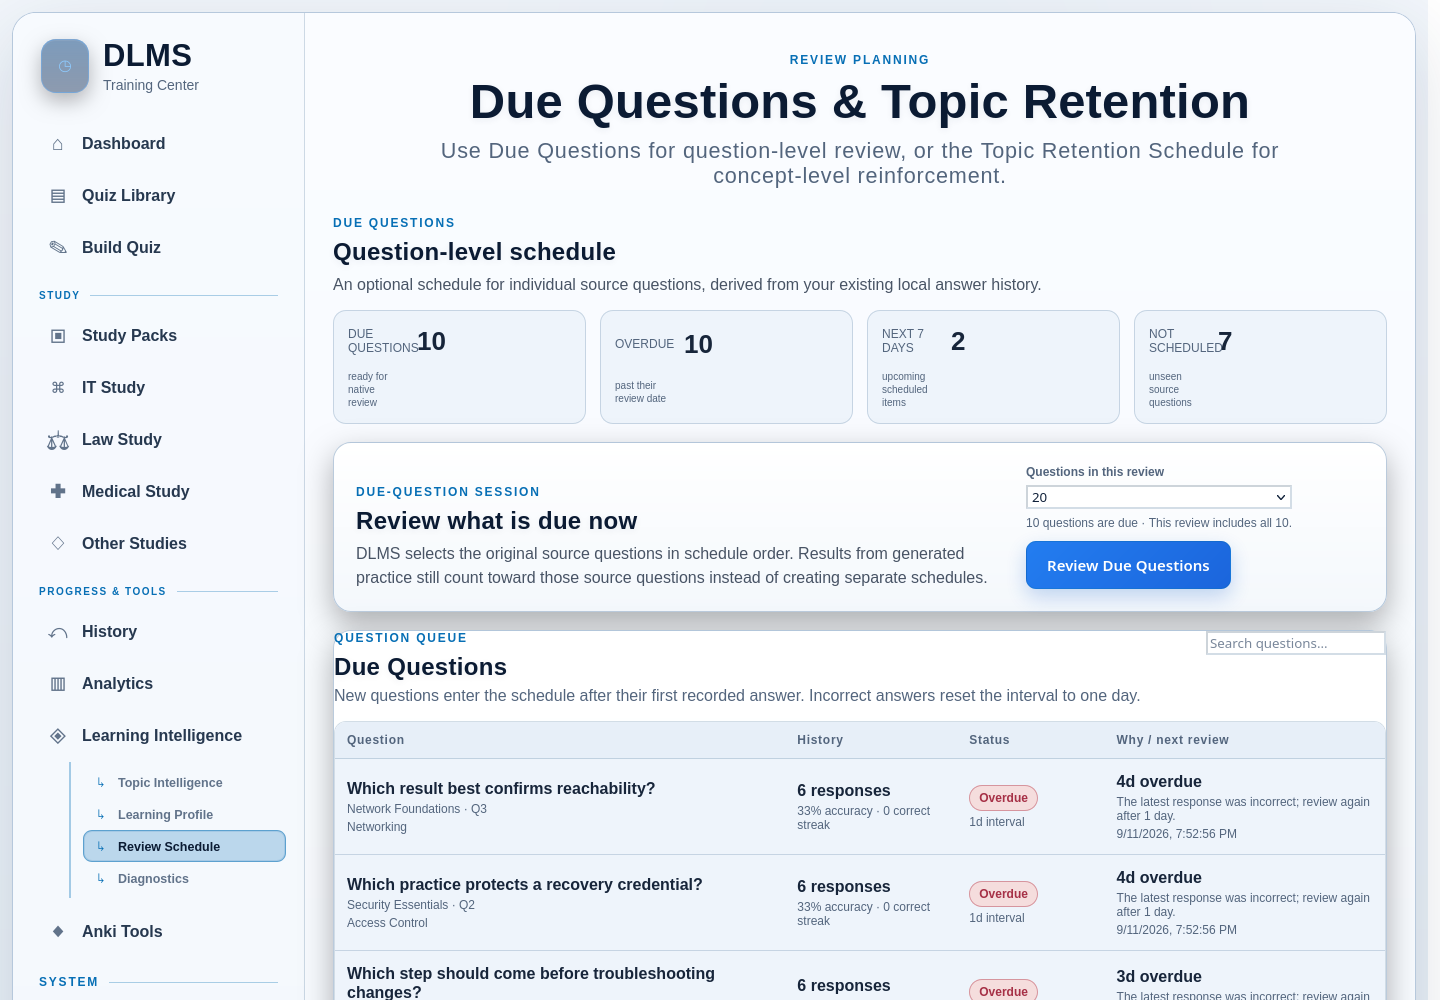
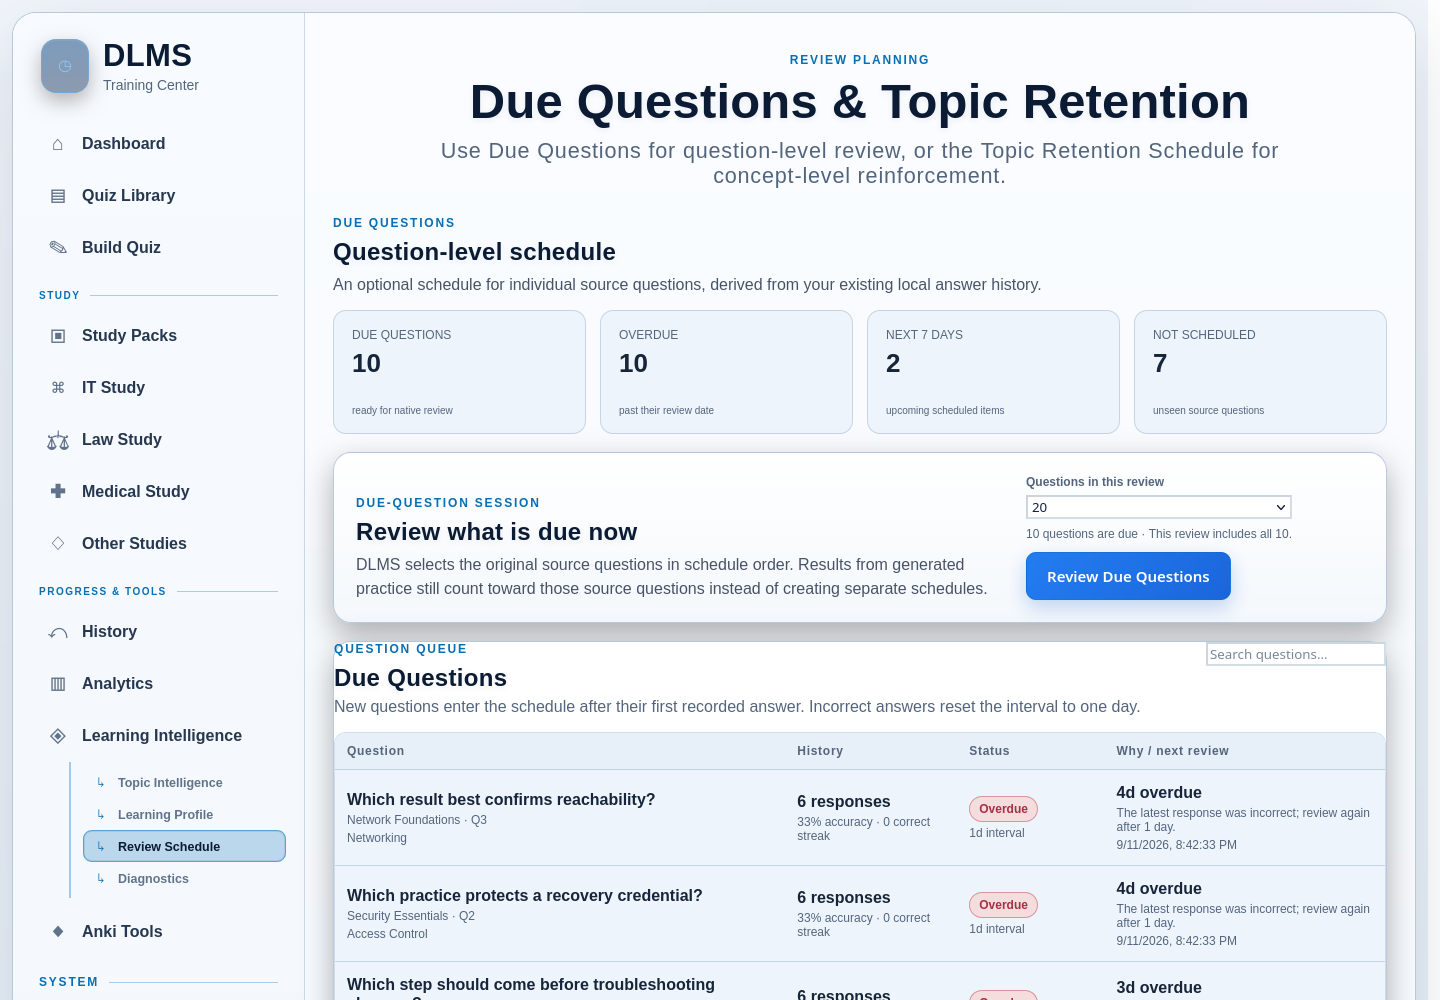
fix: prevent Review Schedule metric card overlap

diff --git a/static/style.css b/static/style.css
@@ -11178,6 +11178,32 @@ body.help-page .dashboard-main *::after {
    ========================================================= */
 .review-schedule-page .dashboard-main{min-width:0;}
 .review-schedule-summary{display:grid;grid-template-columns:repeat(4,minmax(0,1fr));gap:14px;margin-bottom:18px;}
+.review-schedule-summary .dashboard-stat-card{
+    grid-template-columns:minmax(0,1fr);
+    grid-template-rows:auto auto minmax(0,1fr);
+    align-content:start;
+    align-items:start;
+    gap:4px;
+    min-height:124px;
+    padding:16px 18px;
+}
+.review-schedule-summary .dashboard-stat-card>span,
+.review-schedule-summary .dashboard-stat-card>strong,
+.review-schedule-summary .dashboard-stat-card>small{
+    display:block;
+    width:100%;
+    min-width:0;
+    max-width:100%;
+    word-break:normal;
+    overflow-wrap:break-word;
+}
+.review-schedule-summary .dashboard-stat-card>span{line-height:1.3;}
+.review-schedule-summary .dashboard-stat-card>strong{line-height:1.1;}
+.review-schedule-summary .dashboard-stat-card>small{
+    align-self:end;
+    padding-top:6px;
+    line-height:1.35;
+}
 .review-schedule-actions,.review-schedule-model,.review-schedule-list-panel{padding:22px;margin-bottom:18px;}
 .review-schedule-actions{display:flex;justify-content:space-between;align-items:flex-end;gap:20px;}
 .review-schedule-actions>div{min-width:0;max-width:650px;}

diff --git a/tests/browser/test_critical_workflows.py b/tests/browser/test_critical_workflows.py
@@ -8389,6 +8389,68 @@ def test_post_310_workflows_stack_by_available_content_width(browser_stack):
         ) is True, path
 
 
+def test_review_schedule_summary_cards_keep_text_rows_separate(browser_stack):
+    """Review metrics must remain stacked, contained, and readable in every theme."""
+    browser = browser_stack.browser
+    base_url = browser_stack.base_url
+    probe = (
+        "(() => {const cards=[...document.querySelectorAll("
+        "'.review-schedule-summary .dashboard-stat-card')];"
+        "const inspect=card=>{const [label,value,support]=card.children;"
+        "const cardRect=card.getBoundingClientRect(),labelRect=label.getBoundingClientRect(),"
+        "valueRect=value.getBoundingClientRect(),supportRect=support.getBoundingClientRect();"
+        "const contained=rect=>rect.left>=cardRect.left-1&&rect.right<=cardRect.right+1&&"
+        "rect.top>=cardRect.top-1&&rect.bottom<=cardRect.bottom+1;"
+        "return {columns:getComputedStyle(card).gridTemplateColumns.split(' ').length,"
+        "labelBeforeValue:labelRect.bottom<=valueRect.top+1,"
+        "valueBeforeSupport:valueRect.bottom<=supportRect.top+1,"
+        "contained:[labelRect,valueRect,supportRect].every(contained),"
+        "fits:card.scrollWidth<=card.clientWidth+1};};"
+        "return {count:cards.length,cards:cards.map(inspect),"
+        "documentFits:document.documentElement.scrollWidth<=window.innerWidth+1};})()"
+    )
+
+    browser.navigate(base_url + "/")
+    browser.wait_for("document.querySelector('.dashboard-shell')")
+    for theme in ("light", "dark", "purple-gold", "maroon-gold"):
+        browser.set_viewport(1024, 900)
+        _set_theme(browser, theme)
+        browser.navigate(base_url + "/review-schedule")
+        browser.wait_for(
+            "document.getElementById('nrsDue').textContent !== '—' && "
+            "document.getElementById('rsDue').textContent !== '—'"
+        )
+        state = browser.evaluate(probe)
+        assert state["count"] == 8
+        assert state["documentFits"] is True
+        assert all(
+            card == {
+                "columns": 1,
+                "labelBeforeValue": True,
+                "valueBeforeSupport": True,
+                "contained": True,
+                "fits": True,
+            }
+            for card in state["cards"]
+        ), (theme, state)
+
+    _set_theme(browser, "light")
+    for width in (1440, 1024, 760, 420):
+        browser.set_viewport(width, 900)
+        browser.navigate(base_url + "/review-schedule")
+        browser.wait_for("document.getElementById('nrsDue').textContent !== '—'")
+        state = browser.evaluate(probe)
+        assert state["documentFits"] is True, (width, state)
+        assert all(
+            card["columns"] == 1
+            and card["labelBeforeValue"]
+            and card["valueBeforeSupport"]
+            and card["contained"]
+            and card["fits"]
+            for card in state["cards"]
+        ), (width, state)
+
+
 def test_post_310_workflow_text_and_controls_remain_readable_across_themes(
     browser_stack,
 ):

diff --git a/tests/test_navigation_layout.py b/tests/test_navigation_layout.py
@@ -416,6 +416,54 @@ class NavigationLayoutTests(unittest.TestCase):
         self.assertIn("state.model.generated_practice", page)
         self.assertIn("button:not([disabled]), summary, [href]", page)
 
+    def test_review_schedule_summary_uses_full_width_text_rows(self):
+        page = self._static("review-schedule.html")
+        css = self._static("style.css")
+
+        card = re.search(
+            r"\.review-schedule-summary\s+\.dashboard-stat-card\s*\{([^}]*)\}",
+            css,
+        )
+        self.assertIsNotNone(card)
+        self.assertIn("grid-template-columns:minmax(0,1fr)", card.group(1))
+        self.assertIn("grid-template-rows:auto auto minmax(0,1fr)", card.group(1))
+        self.assertIn("align-items:start", card.group(1))
+        self.assertIn("min-height:124px", card.group(1))
+
+        text_rows = re.search(
+            r"\.review-schedule-summary\s+\.dashboard-stat-card>span,\s*"
+            r"\.review-schedule-summary\s+\.dashboard-stat-card>strong,\s*"
+            r"\.review-schedule-summary\s+\.dashboard-stat-card>small\s*\{([^}]*)\}",
+            css,
+        )
+        self.assertIsNotNone(text_rows)
+        self.assertIn("width:100%", text_rows.group(1))
+        self.assertIn("overflow-wrap:break-word", text_rows.group(1))
+        self.assertIn("word-break:normal", text_rows.group(1))
+
+        for label, value_id in (
+            ("DUE QUESTIONS", "nrsDue"),
+            ("OVERDUE", "nrsOverdue"),
+            ("NEXT 7 DAYS", "nrsUpcoming"),
+            ("NOT SCHEDULED", "nrsUnscheduled"),
+        ):
+            self.assertRegex(
+                page,
+                rf'<article class="dashboard-stat-card"><span>{label}</span>'
+                rf'<strong id="{value_id}">—</strong><small>[^<]+</small></article>',
+            )
+
+        self.assertRegex(
+            css,
+            r"@media\(max-width:900px\)\{\.review-schedule-summary,"
+            r"\.learning-profile-retention-grid\{grid-template-columns:repeat\(2,minmax\(0,1fr\)\)",
+        )
+        self.assertRegex(
+            css,
+            r"@media\(max-width:560px\)\{\.review-schedule-summary,"
+            r"\.learning-profile-retention-grid\{grid-template-columns:1fr;\}",
+        )
+
     def test_learning_intelligence_sticky_practice_cells_have_opaque_theme_base(self):
         css = self._static("style.css")
         for selector, overlay in (
